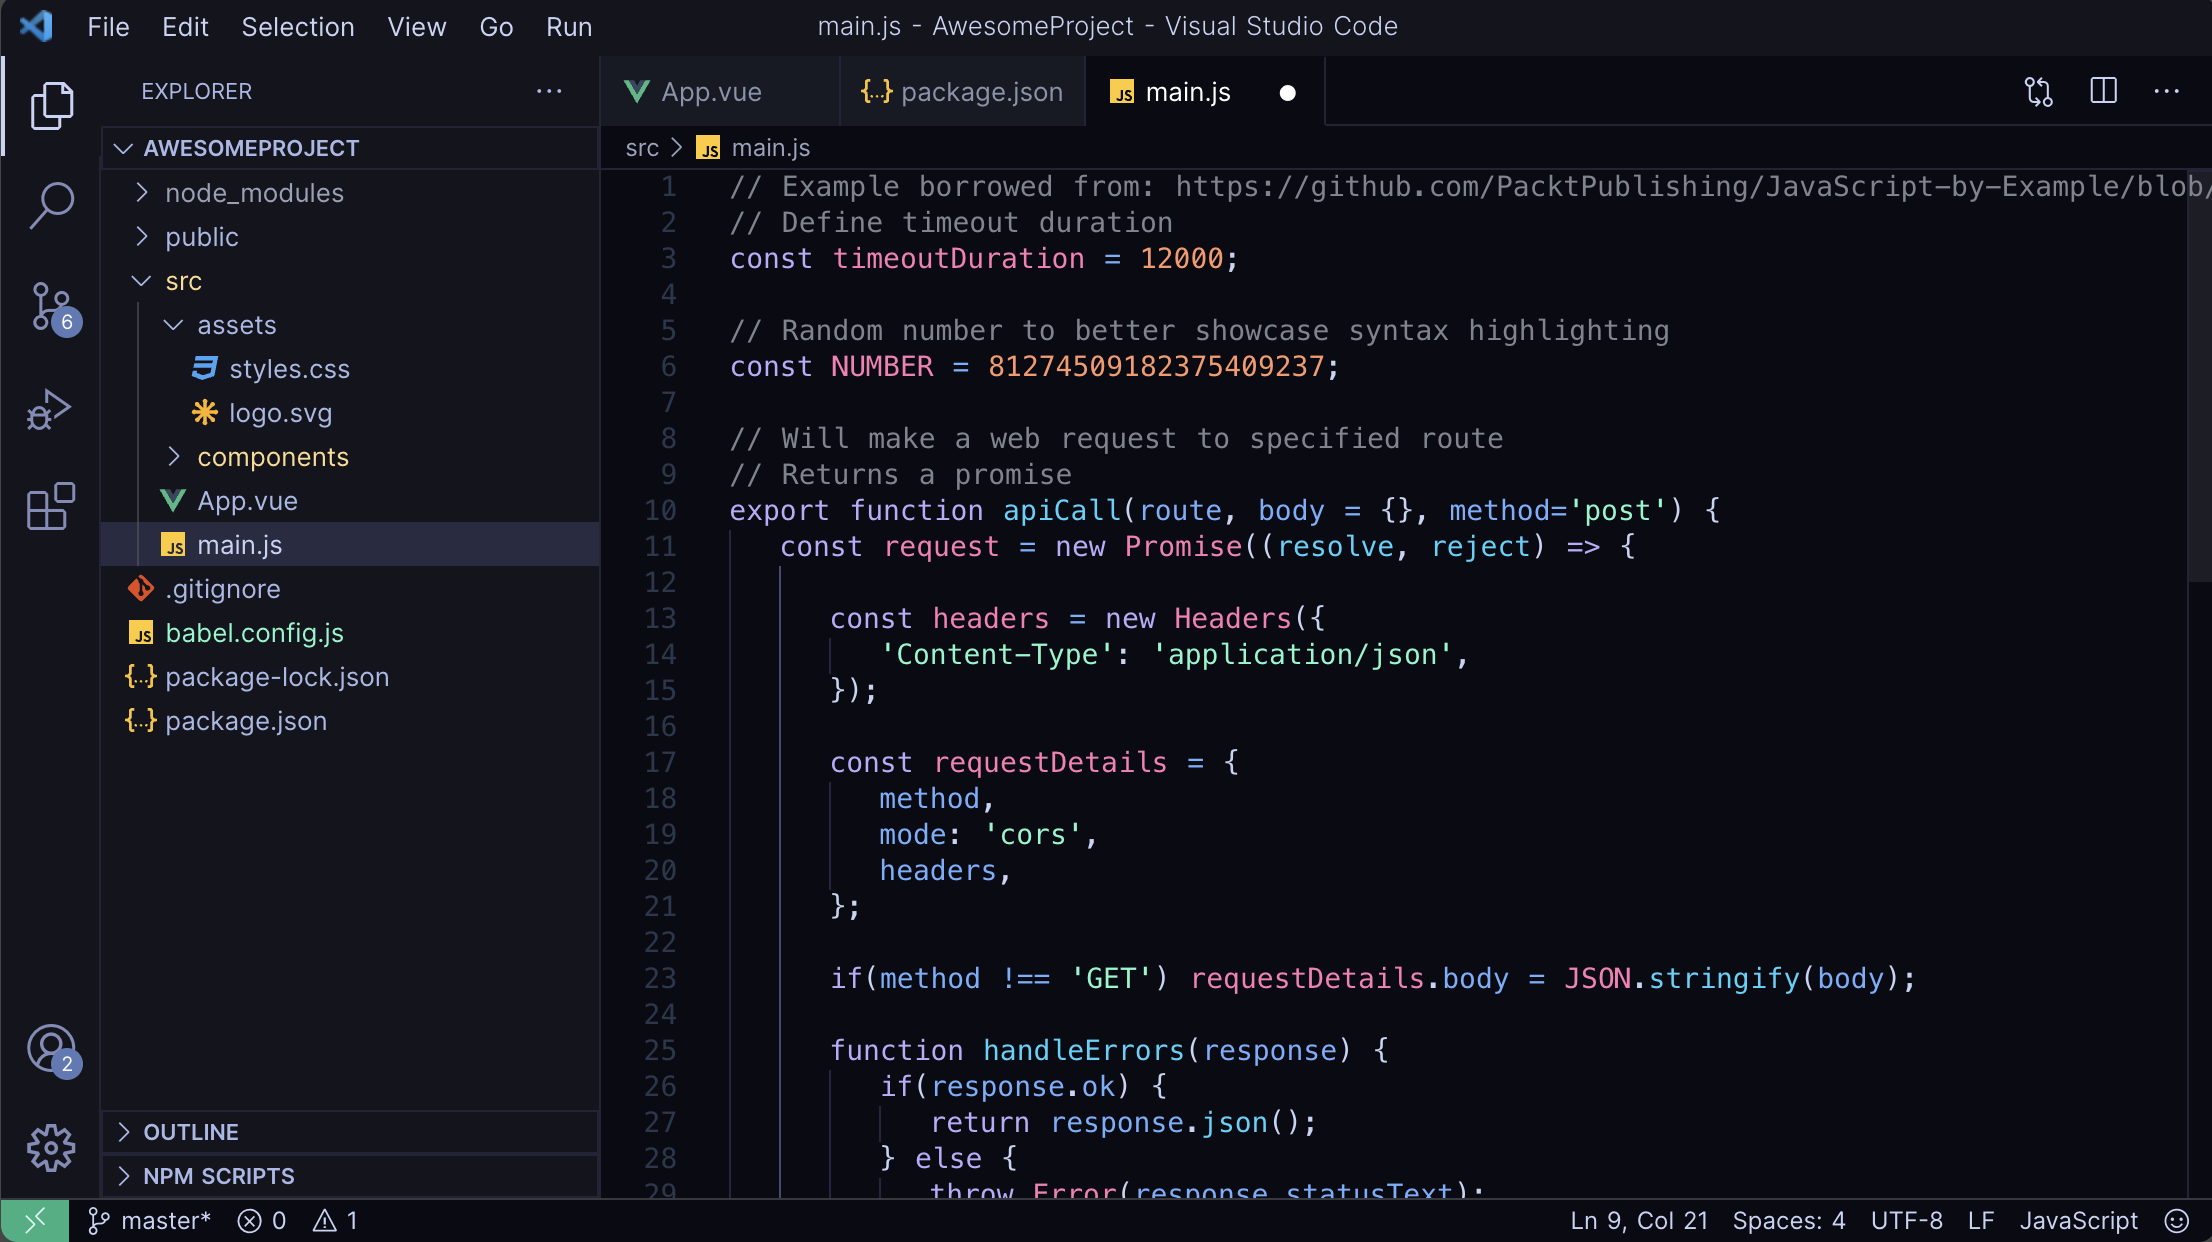
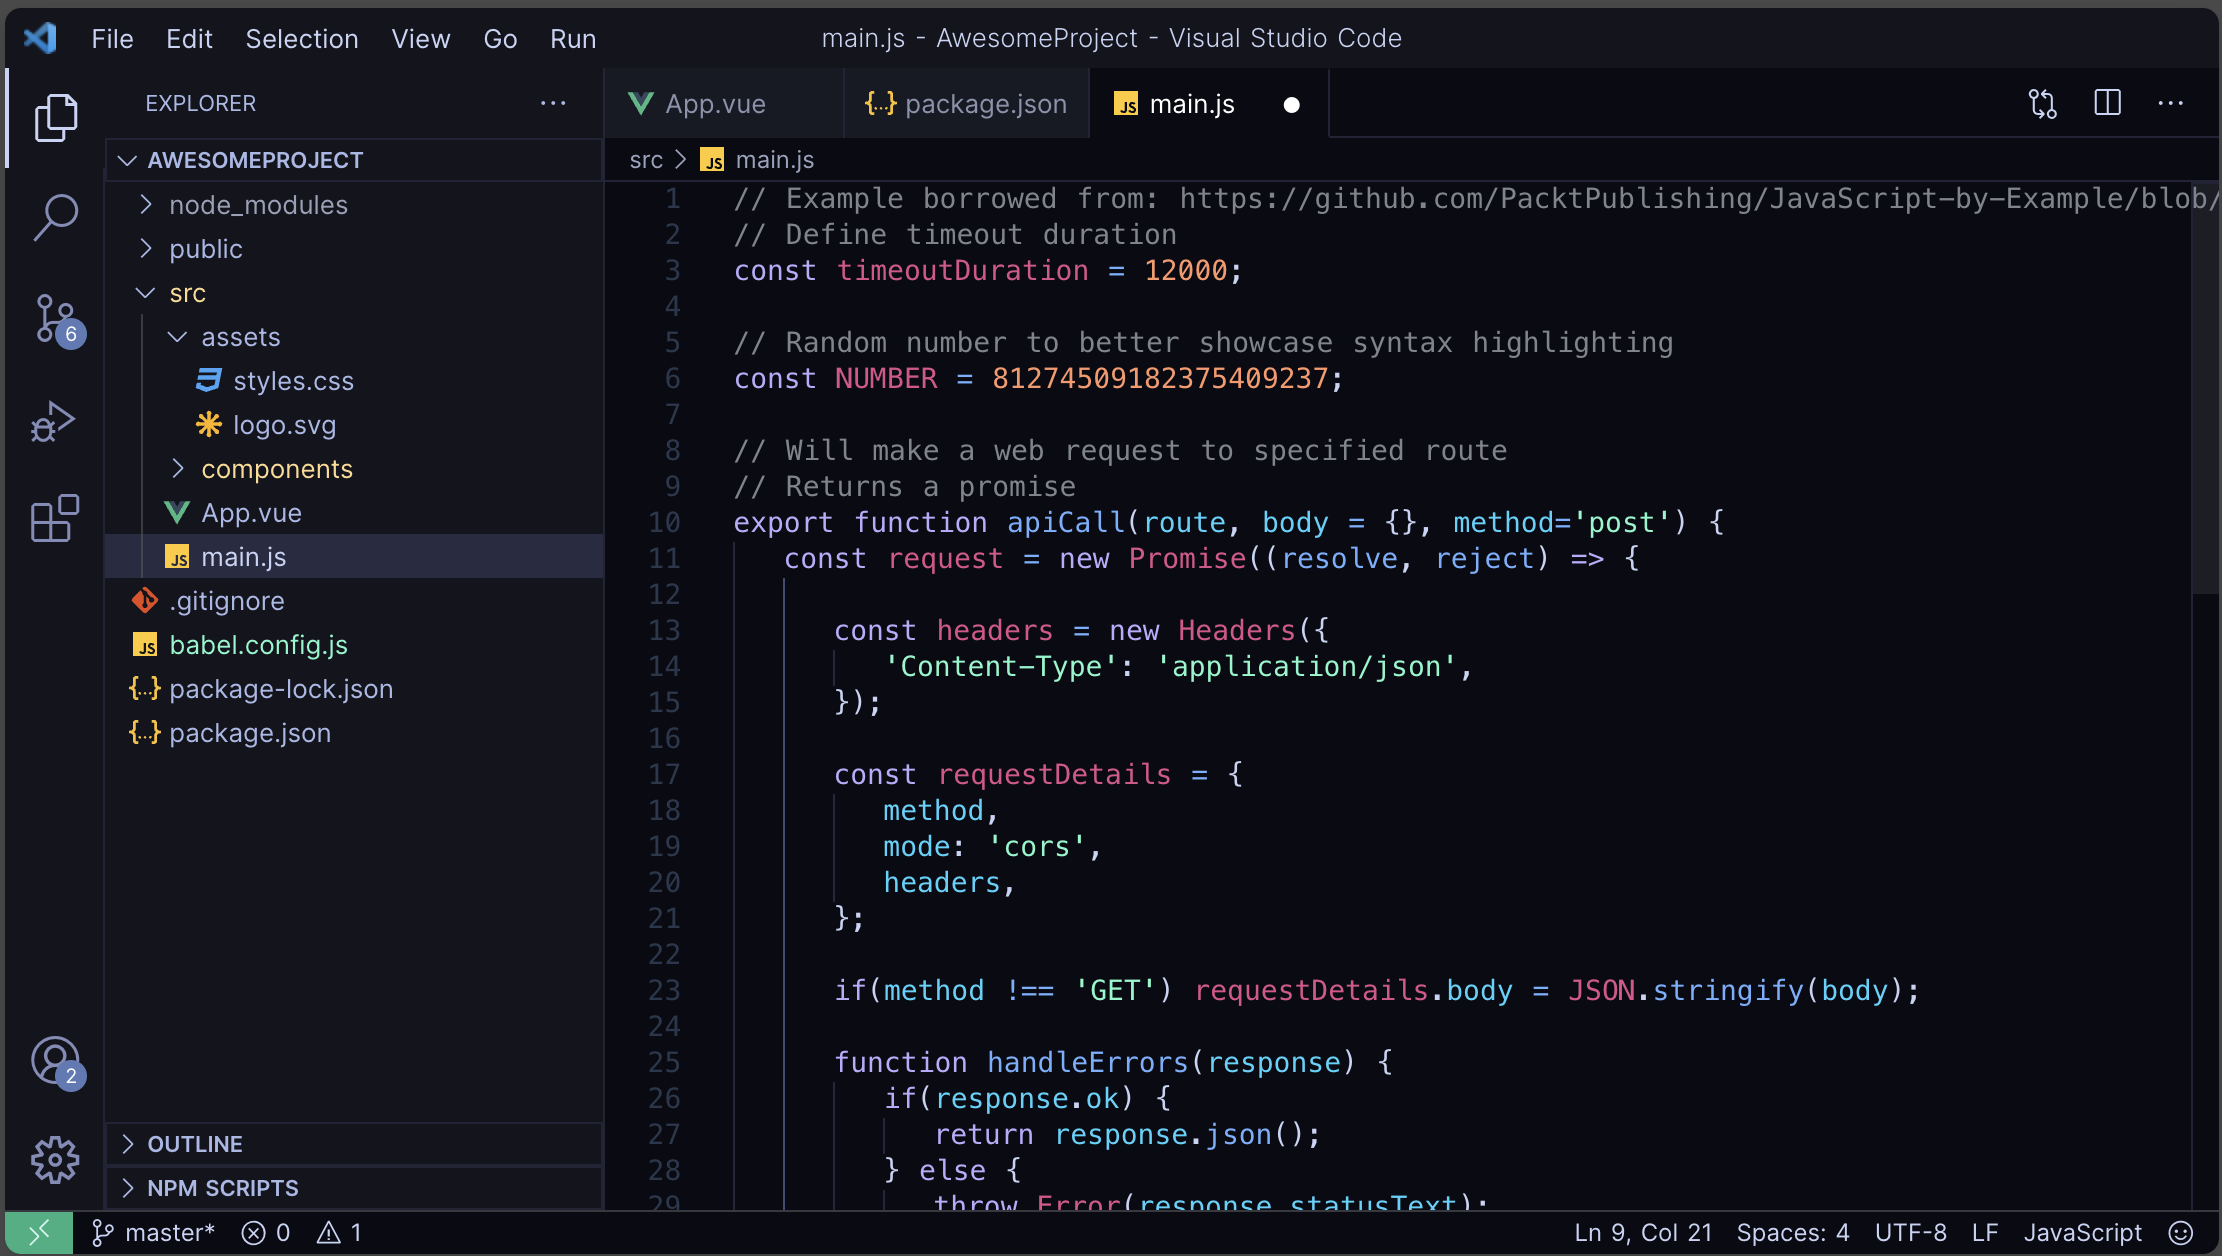
major changes in tokens and tabs and breadcrumbs

diff --git a/README.md b/README.md
@@ -8,4 +8,6 @@ This theme diverges on several colors but does not lose the essence of the moonl
 
 ![Image of theme in vs-code](./assets/ss2.png)
 
+![Image of theme in vs-code](./assets/ss3.png)
+
 ---
